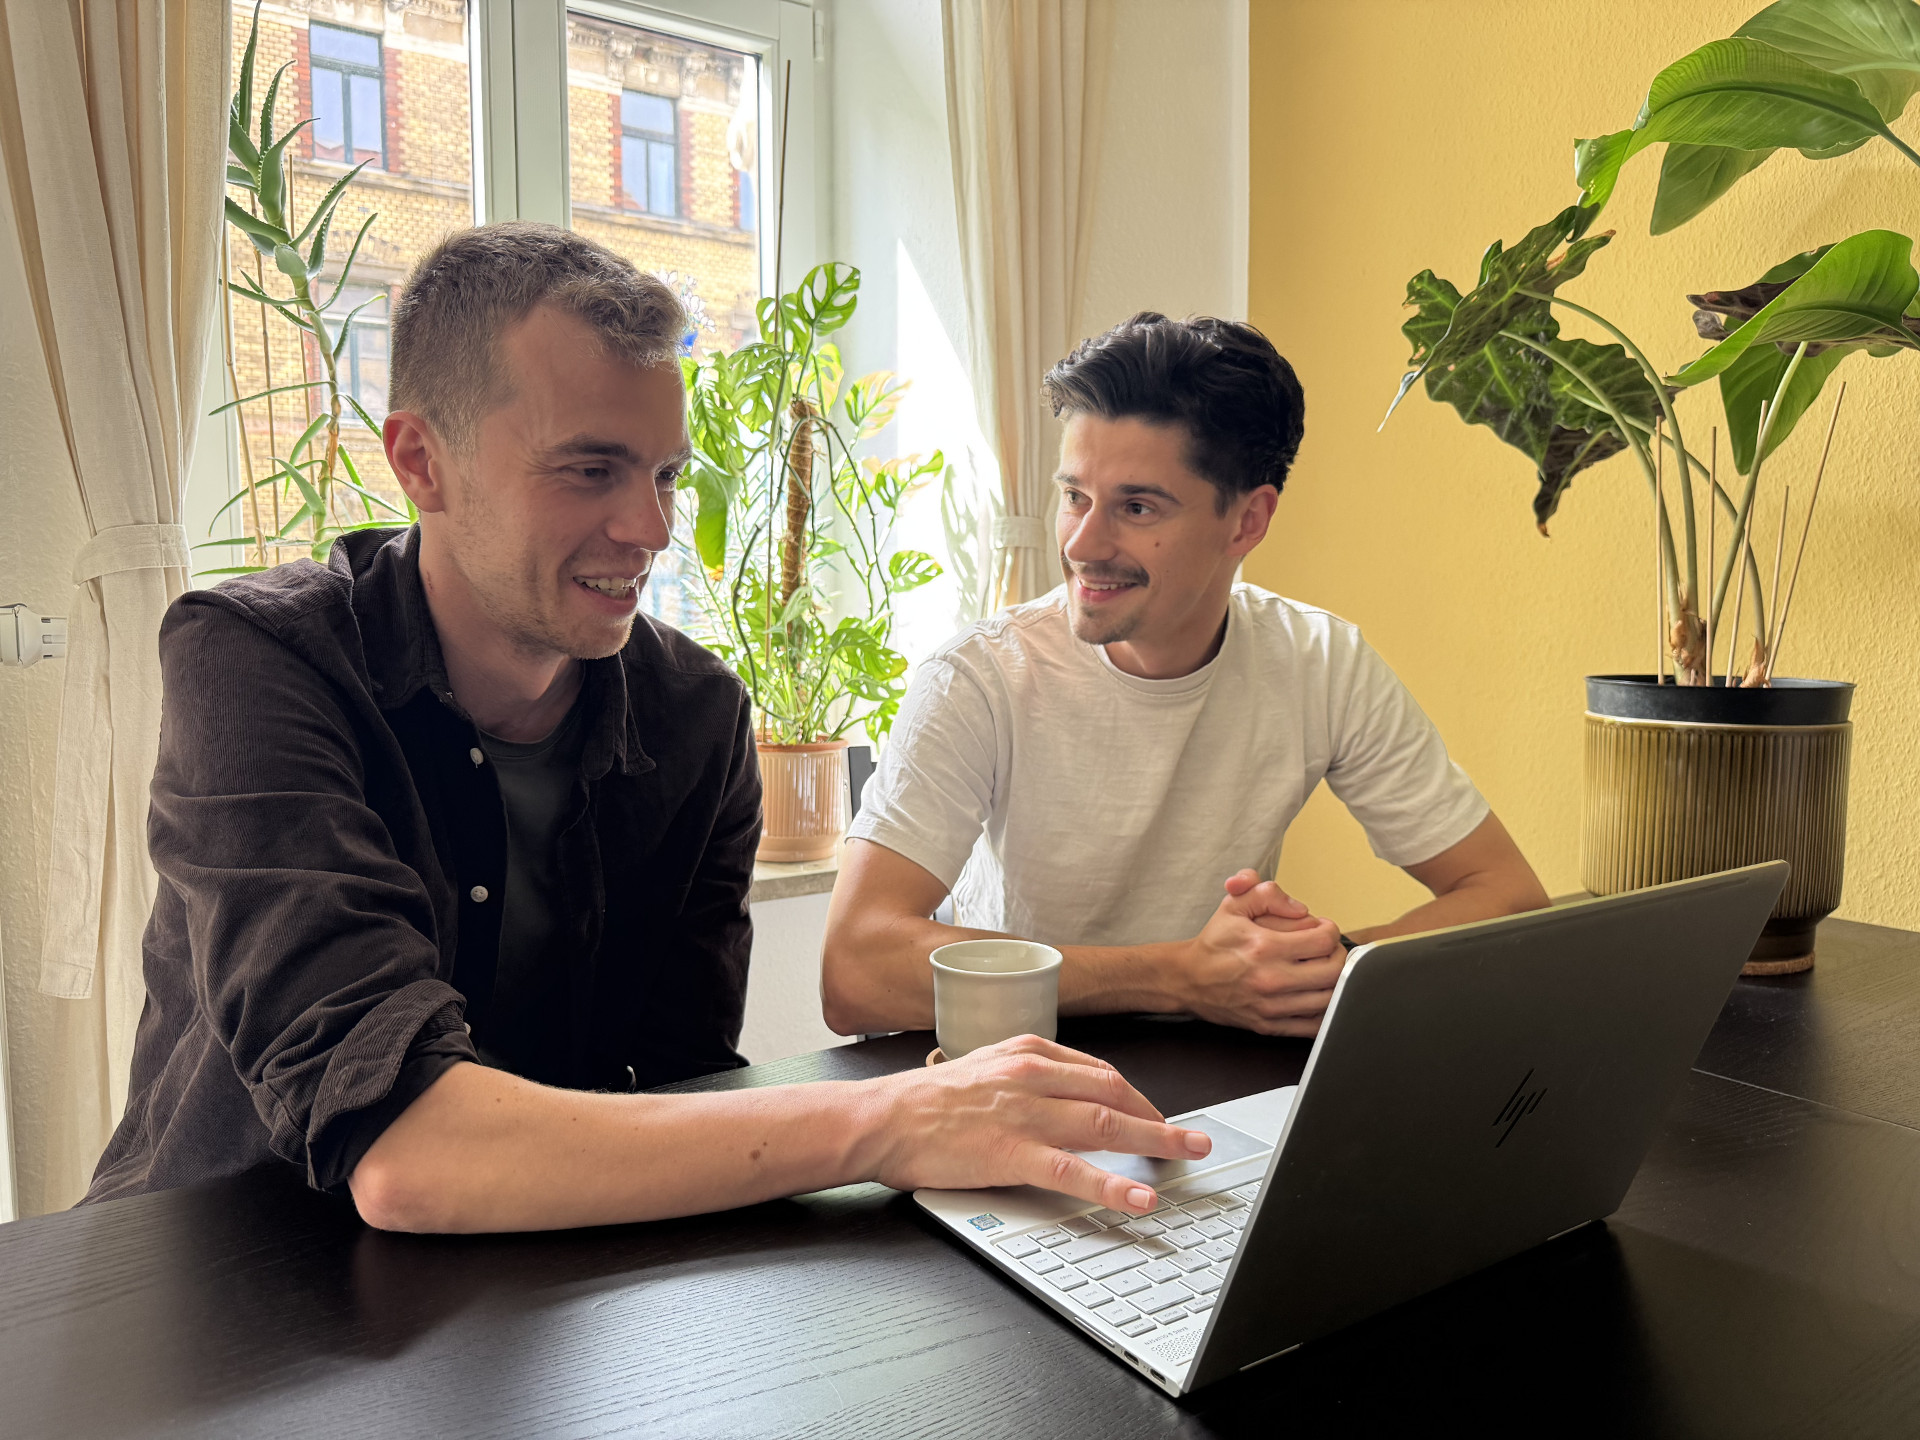
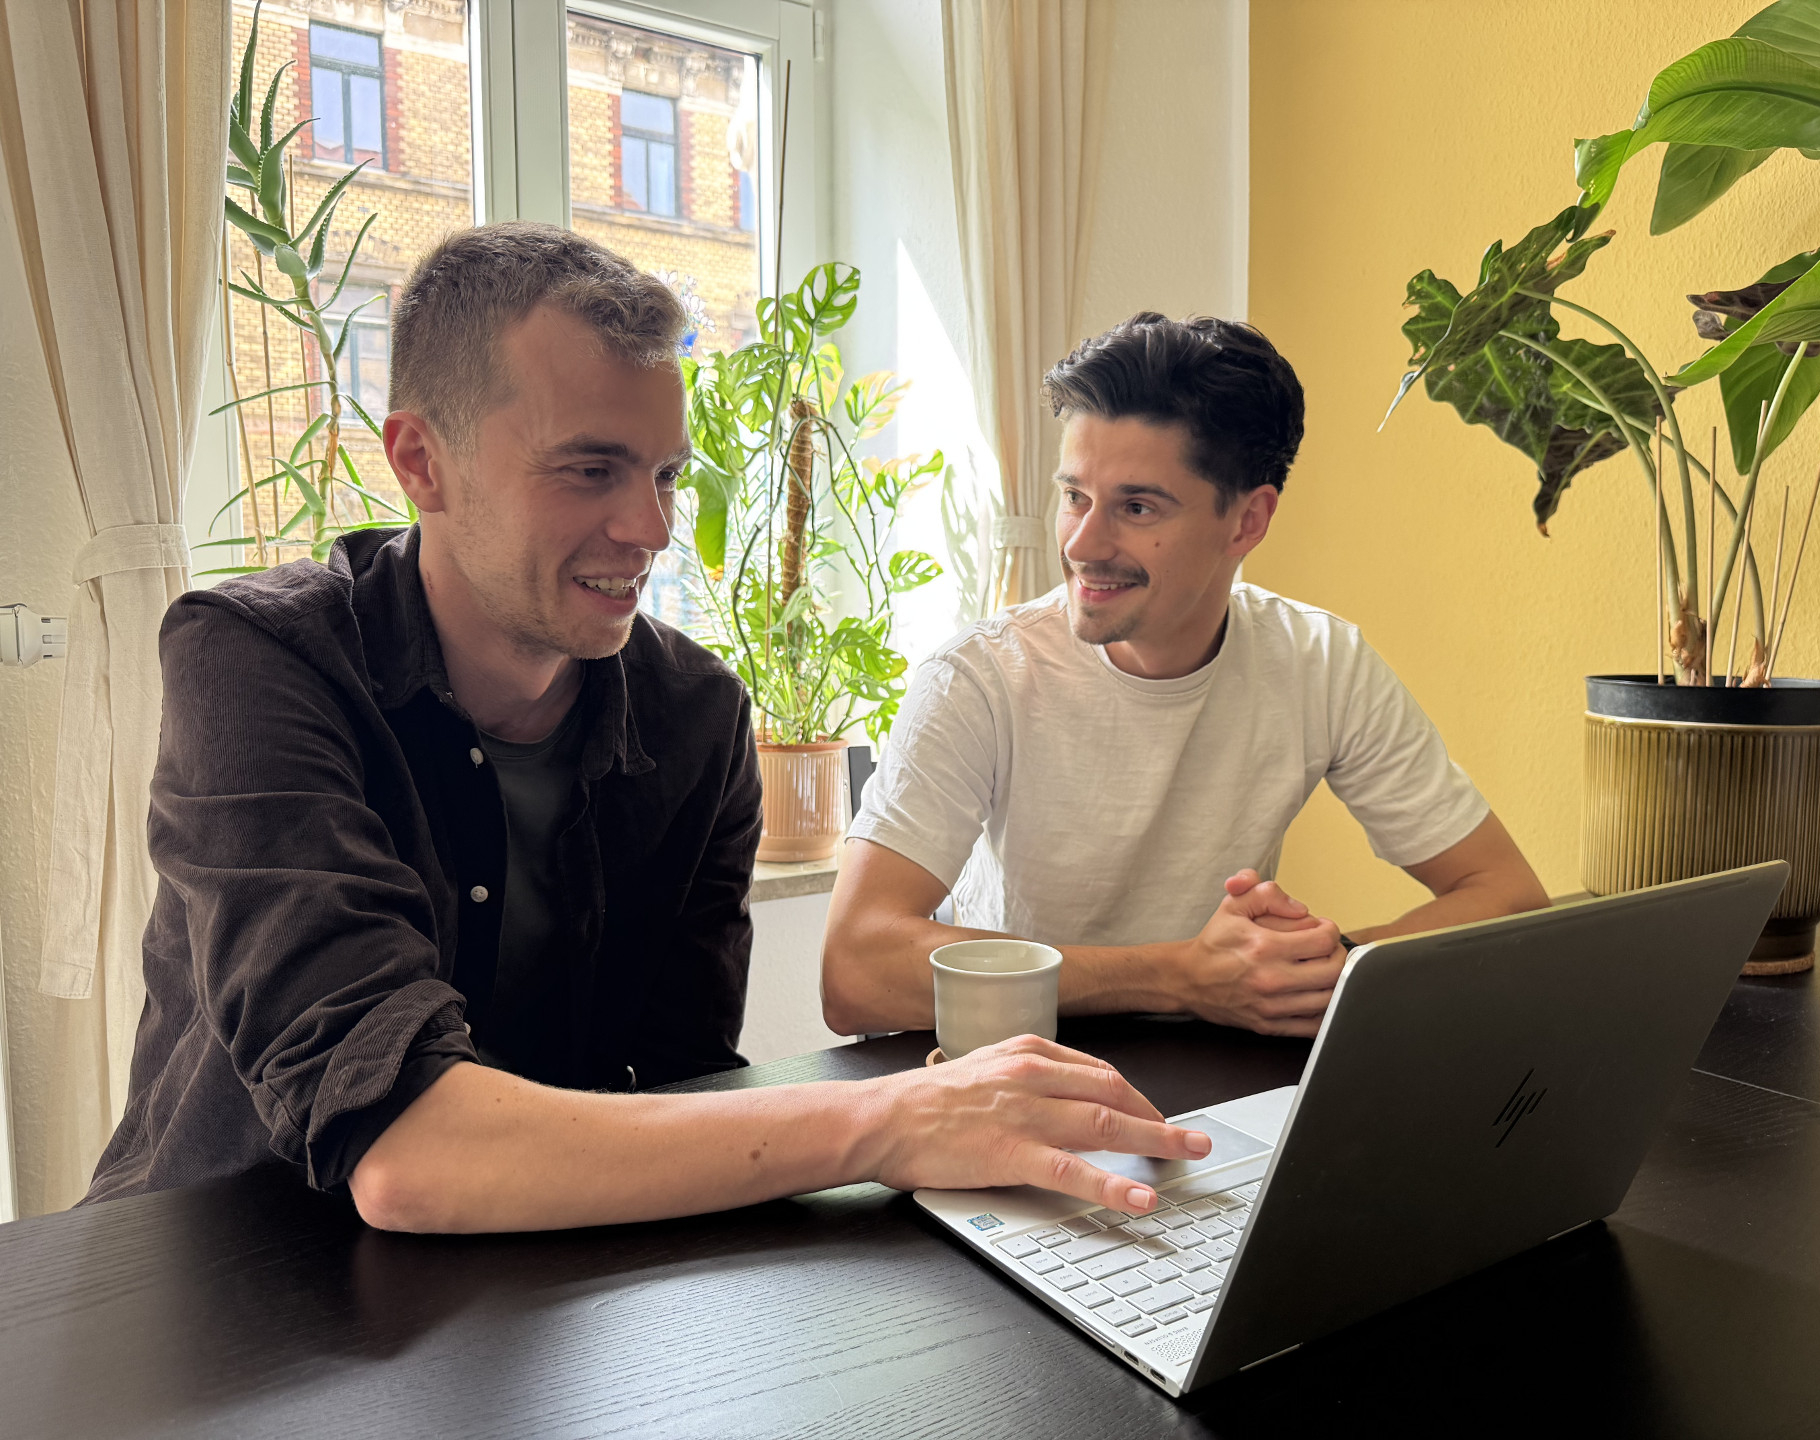
Update

diff --git a/index.html b/index.html
@@ -122,6 +122,7 @@
   .sec-head h2{font-family:var(--serif);font-weight:500;font-size:clamp(28px,4vw,42px);line-height:1.12;letter-spacing:-.015em;margin-bottom:18px}
   .sec-head p{color:var(--ink-soft);font-size:18px}
   #ueber-uns .sec-head{max-width:900px}
+  #leistungen .sec-head{max-width:none}
   .divider{border:none;border-top:1px solid var(--line)}
 
   /* ---------- Leistungen ---------- */
@@ -153,7 +154,7 @@
   .case-step p{color:#C7CDDA;font-size:16px;margin:0;line-height:1.6}
   .case-link{display:inline-block;margin-top:6px;color:#fff;border-bottom:1px solid #D9A86A;padding-bottom:2px;font-size:15px;transition:color .2s}
   .case-link:hover{color:#D9A86A}
-  .case-panel{border:1px solid rgba(255,255,255,.14);border-radius:6px;padding:34px 30px;text-align:center}
+  .case-panel{border:1px solid rgba(255,255,255,.14);border-radius:6px;padding:34px 30px;text-align:center;margin-bottom:24px}
   .case-vs-label{display:block;font-size:12px;letter-spacing:.12em;text-transform:uppercase;color:#8C95A8;margin-bottom:6px}
   .case-vs strong{display:block;font-family:var(--serif);font-size:23px;color:#fff;font-weight:500;line-height:1.15}
   .case-vs small{display:block;font-size:13px;color:#9AA3B4;margin-top:6px}
@@ -165,16 +166,18 @@
 
   /* ---------- Über uns ---------- */
   .people{display:grid;grid-template-columns:repeat(2,1fr);gap:48px}
-  .person{display:flex;gap:24px;align-items:flex-start}
+  .person{display:block}
+  .person-head{display:flex;gap:20px;align-items:center;margin-bottom:18px}
   .avatar{
     flex:0 0 96px;width:96px;height:96px;border-radius:3px;background:#EDE7DA;
     border:1px solid var(--line);display:flex;align-items:center;justify-content:center;
     font-family:var(--serif);font-size:30px;color:var(--muted);overflow:hidden
   }
-  .avatar img{width:100%;height:100%;object-fit:cover}
-  .person h3{font-family:var(--serif);font-weight:600;font-size:22px;margin-bottom:4px}
-  .person-kicker{display:inline-block;font-size:12px;letter-spacing:.12em;text-transform:uppercase;color:var(--accent-deep);font-weight:600;border:1px solid var(--line);border-radius:2px;padding:5px 11px;margin-bottom:14px}
-  .person .role{color:var(--accent-deep);font-size:14px;font-weight:500;margin-bottom:14px}
+  .avatar img{width:100%;height:100%;object-fit:cover;display:block}
+  .person-meta{min-width:0}
+  .person-kicker{display:inline-block;font-size:12px;letter-spacing:.12em;text-transform:uppercase;color:var(--accent-deep);font-weight:600;border:1px solid var(--line);border-radius:2px;padding:5px 11px;margin-bottom:10px}
+  .person h3{font-family:var(--serif);font-weight:600;font-size:22px;margin-bottom:3px}
+  .person .role{color:var(--accent-deep);font-size:14px;font-weight:500}
   .person p{color:var(--ink-soft);font-size:16px}
 
   /* ---------- Kontakt ---------- */
@@ -206,15 +209,32 @@
 
   /* ---------- Responsive ---------- */
   @media(max-width:820px){
+    header{position:static}
     .nav-links{display:none}
-    .grid,.ref-grid,.people,.case,.contact-grid{grid-template-columns:1fr}
+    .grid,.ref-grid,.people,.contact-grid{grid-template-columns:1fr}
     .hero-grid{grid-template-columns:1fr;gap:36px}
     .hero-figure{max-width:100%;aspect-ratio:16/10;margin:0;order:-1}
-    .case-side{margin-top:28px}
+    .hero-actions{flex-wrap:nowrap;gap:12px}
+    .hero-actions .btn{flex:1;text-align:center;padding-left:14px;padding-right:14px}
     .contact-figure{aspect-ratio:16/10}
     .hero{padding:72px 0 64px}
     section{padding:68px 0}
-    .person{flex-direction:column}
+
+    /* Über uns: Bild + Kasten/Name/Rolle in einer Zeile, gleiche Höhe */
+    .person-head{align-items:stretch}
+    .avatar{flex-basis:104px;width:104px;height:auto;align-self:stretch}
+
+    /* Case Study: einspaltig, verschachtelte Reihenfolge */
+    .case{grid-template-columns:1fr;gap:0}
+    .case-story,.case-side{display:contents}
+    .case-side{margin-top:0}
+    .case-meta{order:1}
+    .s-aufgabe{order:2}
+    .s-einsatz{order:3}
+    .case-panel{order:4}
+    .s-website{order:5}
+    .case-shot{order:6}
+    .case-link{order:7}
   }
 </style>
 </head>
@@ -259,7 +279,12 @@
 <section id="leistungen">
   <div class="wrap">
     <div class="sec-head">
+      <div class="sec-tag">Leistungen</div>
       <h2>Was wir für dich machen.</h2>
+      <p>
+        Website, eigene Software, KI-Automatisierung – alles aus einer Hand.
+        Du brauchst dafür nur einen Ansprechpartner: uns.
+      </p>
     </div>
     <div class="grid">
       <div class="card">
@@ -306,14 +331,14 @@
     <div class="case">
       <div class="case-story">
         <div class="case-meta">Sicherheitsdienst · Website · Einsatzplanung</div>
-        <div class="case-step">
+        <div class="case-step s-aufgabe">
           <span class="case-label">Die Aufgabe</span>
           <p>
             Sauermann digitalisieren und skalierbarer machen – weg von
             Handarbeit, hin zu Prozessen, die mitwachsen.
           </p>
         </div>
-        <div class="case-step">
+        <div class="case-step s-einsatz">
           <span class="case-label">Einsatzplanung</span>
           <p>
             Vorher liefen die Schichten über Excel, und jeder Plan ging einzeln
@@ -322,7 +347,7 @@
             schicken lassen.
           </p>
         </div>
-        <div class="case-step">
+        <div class="case-step s-website">
           <span class="case-label">Website</span>
           <p>
             Dazu haben wir den kompletten Webauftritt neu gebaut – modern, klar
@@ -332,22 +357,22 @@
         <a href="https://sicherheitsdienst-sauermann.de/home/" target="_blank" rel="noopener" class="case-link">sicherheitsdienst-sauermann.de →</a>
       </div>
       <div class="case-side">
-      <a href="https://sicherheitsdienst-sauermann.de/home/" target="_blank" rel="noopener" class="case-shot">
-        <img src="sauermann.png" alt="Website von Sauermann Sicherheit" onerror="this.closest('.case-shot').style.display='none'">
-      </a>
-      <div class="case-panel">
-        <div class="case-vs">
-          <span class="case-vs-label">Vorher</span>
-          <strong>Excel + Einzel-Mails</strong>
-          <small>stundenlange Handarbeit</small>
+        <div class="case-panel">
+          <div class="case-vs">
+            <span class="case-vs-label">Vorher</span>
+            <strong>Excel + Einzel-Mails</strong>
+            <small>stundenlange Handarbeit</small>
+          </div>
+          <div class="case-arrow">↓</div>
+          <div class="case-vs">
+            <span class="case-vs-label">Heute</span>
+            <strong>Ein Klick</strong>
+            <small>eigenes Planungstool, komplett digital</small>
+          </div>
         </div>
-        <div class="case-arrow">↓</div>
-        <div class="case-vs">
-          <span class="case-vs-label">Heute</span>
-          <strong>Ein Klick</strong>
-          <small>eigenes Planungstool, komplett digital</small>
-        </div>
-      </div>
+        <a href="https://sicherheitsdienst-sauermann.de/home/" target="_blank" rel="noopener" class="case-shot">
+          <img src="sauermann.png" alt="Website von Sauermann Sicherheit" onerror="this.closest('.case-shot').style.display='none'">
+        </a>
       </div>
     </div>
   </div>
@@ -368,41 +393,45 @@
     </div>
     <div class="people">
       <div class="person">
-        <div class="avatar">
-          <img src="julian-haluska.jpg" alt="Julian Haluska" onerror="this.style.display='none';this.parentNode.textContent='J'">
+        <div class="person-head">
+          <div class="avatar">
+            <img src="julian-haluska.jpg" alt="Julian Haluska" onerror="this.style.display='none';this.parentNode.textContent='J'">
+          </div>
+          <div class="person-meta">
+            <span class="person-kicker">Die Technik</span>
+            <h3>Julian Haluska</h3>
+            <div class="role">Softwareentwicklung &amp; KI</div>
+          </div>
         </div>
-        <div>
-          <span class="person-kicker">Die Technik</span>
-          <h3>Julian Haluska</h3>
-          <div class="role">Softwareentwicklung &amp; KI</div>
-          <p>
-            Ich bin Julian. Seit über einem Jahrzehnt entwickle ich Software –
-            und ich habe ein eigenes Startup gegründet, das ich als
-            Geschäftsführer und CTO technisch verantworte, von der Plattform bis
-            zum laufenden Betrieb. Individuelle Softwareentwicklung kenne ich aus
-            Projekten im Handelsumfeld. Mein Ding ist KI-gestützte
-            Automatisierung: pragmatische Lösungen, die schnell live gehen und
-            dich im Alltag wirklich entlasten.
-          </p>
-        </div>
+        <p>
+          Ich bin Julian. Seit über einem Jahrzehnt entwickle ich Software –
+          und ich habe ein eigenes Startup gegründet, das ich als
+          Geschäftsführer und CTO technisch verantworte, von der Plattform bis
+          zum laufenden Betrieb. Individuelle Softwareentwicklung kenne ich aus
+          Projekten im Handelsumfeld. Mein Ding ist KI-gestützte
+          Automatisierung: pragmatische Lösungen, die schnell live gehen und
+          dich im Alltag wirklich entlasten.
+        </p>
       </div>
       <div class="person">
-        <div class="avatar">
-          <img src="henning-sanders.jpg" alt="Henning Sanders" onerror="this.style.display='none';this.parentNode.textContent='H'">
+        <div class="person-head">
+          <div class="avatar">
+            <img src="henning-sanders.jpg" alt="Henning Sanders" onerror="this.style.display='none';this.parentNode.textContent='H'">
+          </div>
+          <div class="person-meta">
+            <span class="person-kicker">Die Prozesse</span>
+            <h3>Henning Sanders</h3>
+            <div class="role">SAP-Beratung &amp; Business-Prozesse</div>
+          </div>
         </div>
-        <div>
-          <span class="person-kicker">Die Prozesse</span>
-          <h3>Henning Sanders</h3>
-          <div class="role">SAP-Beratung &amp; Business-Prozesse</div>
-          <p>
-            Ich bin Henning. Als SAP-Berater betreue ich vor allem die
-            Geschäftsprozesse großer Unternehmen – das ist mein Alltag. Dadurch
-            begreife ich schnell, wie ein Betrieb tickt und was wirklich
-            gebraucht wird, und ich stelle die richtigen Fragen. Genau dieses
-            Prozesswissen bringe ich ein: Ich übersetze, was dein Unternehmen
-            braucht, in das, was Julian dann baut.
-          </p>
-        </div>
+        <p>
+          Ich bin Henning. Als SAP-Berater betreue ich vor allem die
+          Geschäftsprozesse großer Unternehmen – das ist mein Alltag. Dadurch
+          begreife ich schnell, wie ein Betrieb tickt und was wirklich
+          gebraucht wird, und ich stelle die richtigen Fragen. Genau dieses
+          Prozesswissen bringe ich ein: Ich übersetze, was dein Unternehmen
+          braucht, in das, was Julian dann baut.
+        </p>
       </div>
     </div>
   </div>